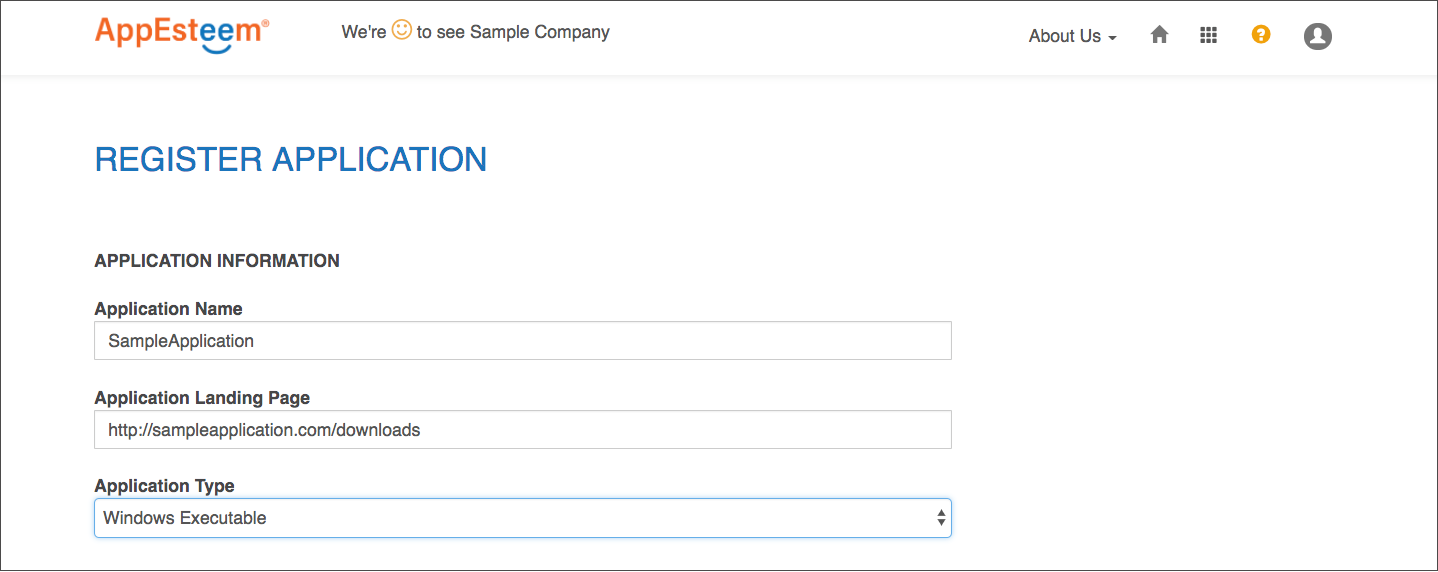
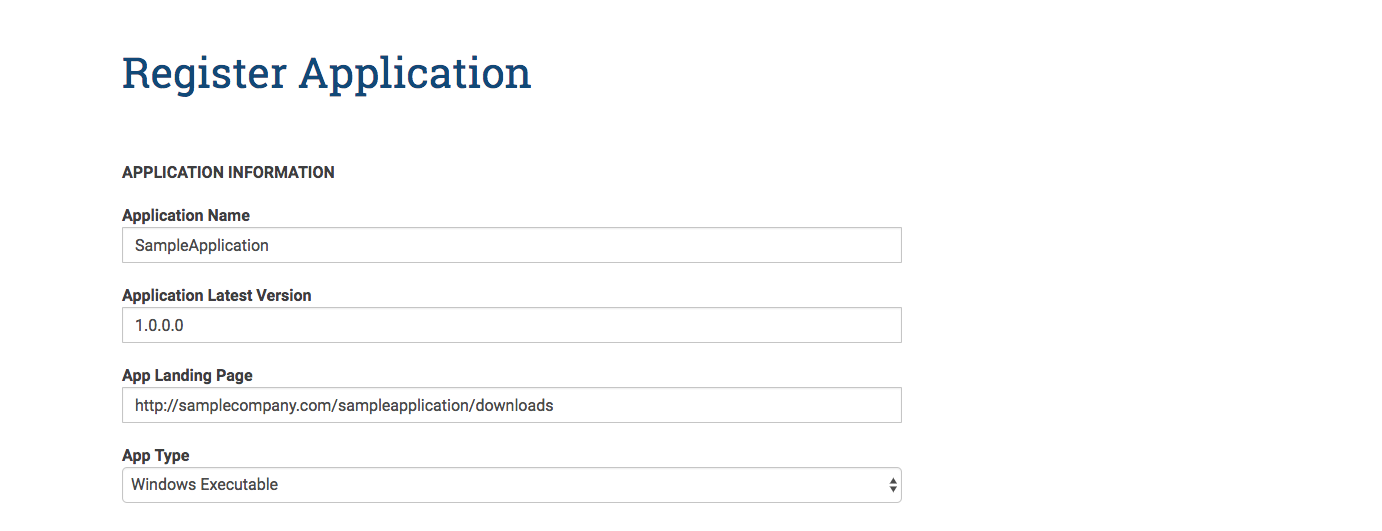
Update images and instructions according the latest flow

diff --git a/registerapplication.md b/registerapplication.md
@@ -12,40 +12,36 @@
 
     ![Application List](./media/registerApplication_3.png)
 
-2. Enter Application Name, Application Landing Page and Application Type.
+2. Enter Application Name, Application Latest Version, Application Landing Page and Application Type.
 
     ![Register Application form](./media/registerApplication_4.png)
 
-3. Next step depends on the commitment level of your company. If your company has "Explore" commitment level, you will see three categories of service. Choose Premium Support by clicking the Select button under the PREMIUM SUPPORT. Check the agree checkbox and click the Register Application to continue registration.
+3. Next step depends on the commitment level of your company. If your company has "Explore" commitment level, you will see four categories of service. Choose one of the  Premium Support by clicking the Select button under the PREMIUM SUPPORT or under PREMIUM SUPPORT AND APP JAIL SERVICES. Click the **Register Application** to continue registration.
 
     ![Category of Service](./media/registerApplication_5.png)
 
-   If your company has "Committed" commitment level, you will see only one category of service - Premium support. Click the Register Application button to continue registration.
+   If your company has "Committed" commitment level, you will see only one category of service - PREMIUM SUPPORT AND APP JAIL SERVICES. Click the **Register Application** button to continue registration.
 
     ![Premium Support](./media/registerApplication_6.png)
 
-4. Enter application version and click on the **Next** button.
-
-    ![Register Application Version](./media/registerApplication_7.png)
-
-5. Request Application Certification. Upload application executables and click the **Next** button
+4. Request Application Certification. Upload application executables and click the **Next** button
 
     ![Certify Application Step 1](./media/registerApplication_8.png)
 
-6. Provide application information and click on the **Next** button.
+5. Provide application information and click on the **Next** button.
 
     ![Certify Application Step 2](./media/registerApplication_9.png)
 
     ![Certify Application Step 2](./media/registerApplication_10.png)
 
-7. Check checkboxes for Attestation, enter your Name and click the **Submit** button.
+6. Check checkboxes for Attest, enter your Name and click the **Submit** button.
 
     ![Certify Application Step 3](./media/registerApplication_11.png)
 
-    **NOTE:** At any step of the Request Application Certification, you can click the **Save** for later button. To resume the Certification later you would need to go to the Application List page and click the *Request Certification* link for the correspondent application version.
+    **NOTE:** At any step of the Request Application Certification, you can click the **Save for later** button. To resume the Certification later you would need to go to the Application List page and click the *Request App Review* link for the correspondent application version.
 
     ![Application List](./media/registerApplication_13.png)
 
-8. After the successful registration you will be redirected to the Application List page. The registered application will appear in this list.
+7. After the successful registration you will be redirected to the Application List page. The registered application will appear in this list.
 
     ![Application List](./media/registerApplication_12.png)

diff --git a/createaccount.md b/createaccount.md
@@ -3,7 +3,7 @@
 In order to perform any operations on the AppEsteem customer portal, an account must first be created. The following steps will create a customer account that is linked to you email address.
 
 1. Log in to the AppEsteem portal. Navigate to <http://appesteem.com> and click on the 
-"SIGN IN / SIGN UP" navigation menu link
+"Log in" navigation menu link
 
     ![AppEsteem SIGN IN/SIGN UP menu](./media/createAccount_1.png)
 
@@ -15,11 +15,11 @@ In order to perform any operations on the AppEsteem customer portal, an account 
 
     ![AppEsteem Email Verification page](./media/createAccount_3.png)
 
-4. After a few moments, your check your email for the verification code sent from AppEsteem. Enter the Verification Code you received by email and click the Verify button. Once the code has been verified, you'll be advanced to the next page
+4. After a few moments, please check your email for the verification code sent from AppEsteem. Enter the Verification Code you received by email and click the Verify button. Once the code has been verified, you'll be advanced to the next page
 
     ![AppEsteem Enter Verification Code page](./media/createAccount_4.png)
 
-5. Enter Your Name, Password, Confirm Password and click the Submit button. When both passwords match, you will be directed to the signing page.
+5. Enter Your Name, Password, Confirm Password and click the **Submit** button. When both passwords match, you will be directed to the signing page.
 
     ![User password prompt page](./media/createAccount_5.png)
 
